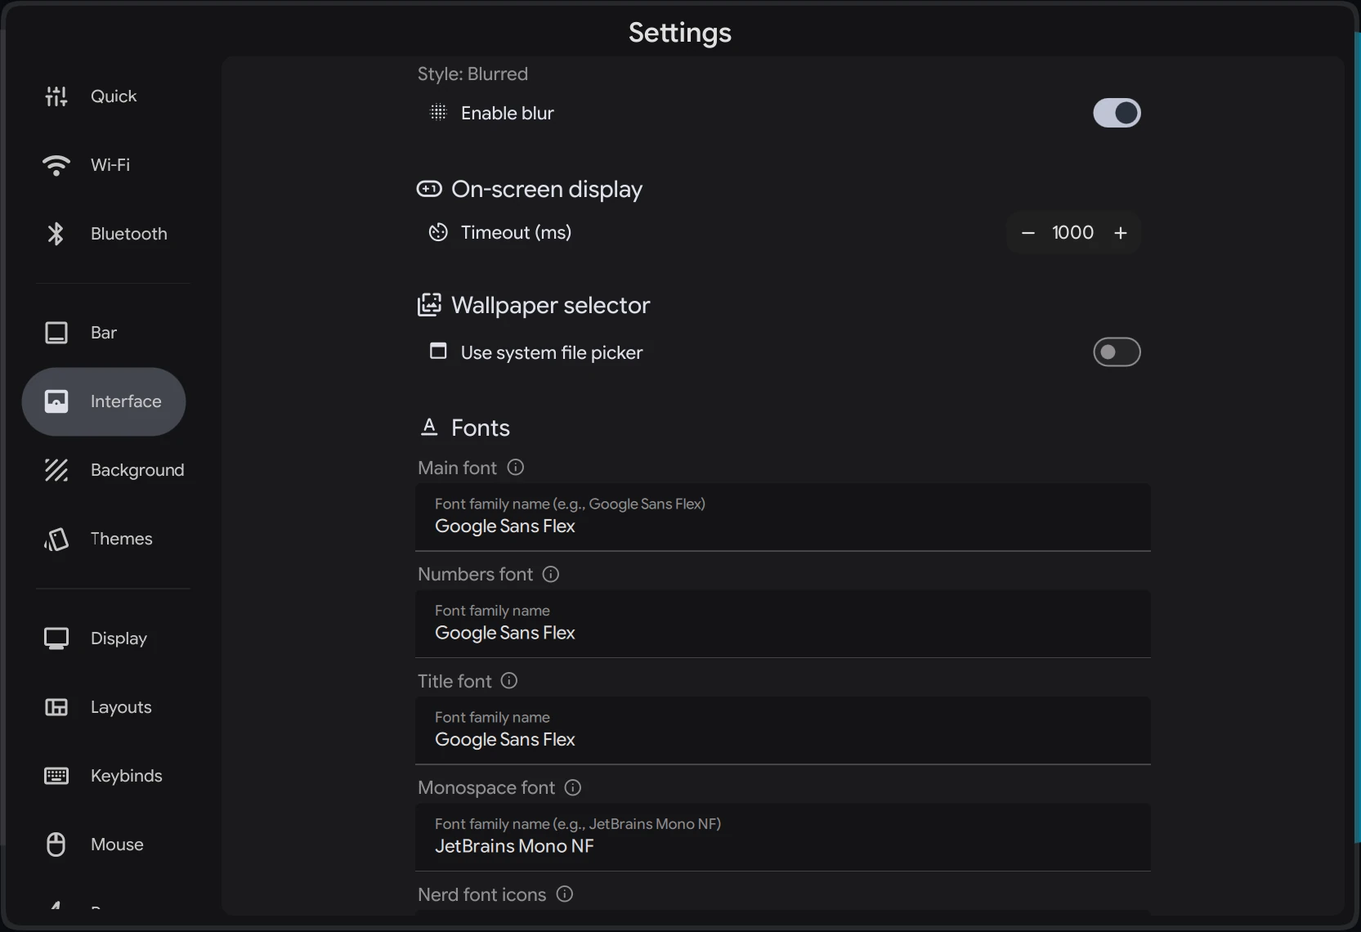
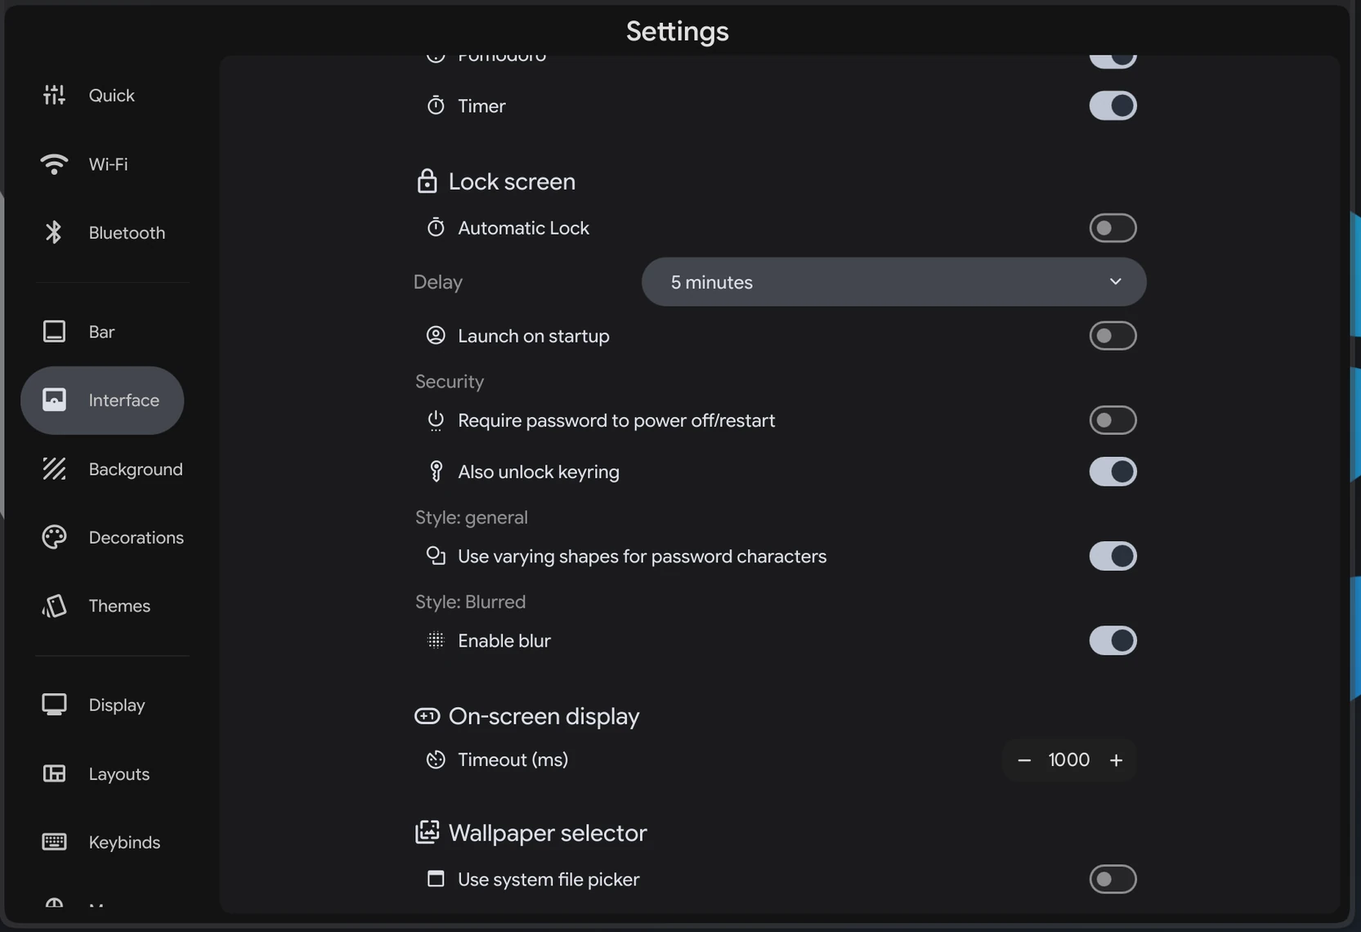
site: update for 1.1.0

diff --git a/docs-pages.js b/docs-pages.js
@@ -406,6 +406,15 @@ PAGES.bar = {
   render: () => `
     ${twoShot('BarConfig-1.webp','Time, date, position, workspaces.','BarConfig-2.webp','Utility buttons, weather, tray, volume.')}
 
+    <h2>Widget layout</h2>
+    <p>The bar is built from widgets you arrange yourself. There are two ways to go about it:</p>
+    <div class="props">
+      <div class="prop"><center><div class="k">Simple</div></center><div class="v">The stock arrangement. Everything sits where Mainstream put it and you only decide what is shown.</div></div>
+      <div class="prop"><center><div class="k">Custom</div></center><div class="v">Take over completely. Drag widgets to reorder them or move them between the left, center, and right sections — top, middle, and bottom on a vertical bar. Tap a widget to hide it, and it stays hidden until you put it back.</div></div>
+    </div>
+    <p>Drop one widget against another to <strong>group them into a pill</strong> — a single rounded container holding both, which is how the clock and its neighbours are drawn by default. <strong>Group style</strong> switches between pills and plain spacing. <strong>Reset to default layout</strong> puts everything back.</p>
+    ${callout('note','Vertical bars leave some widgets out', '<p>A few widgets only make sense across the top. The update indicator, for one, isn\'t offered when the bar is vertical.</p>')}
+
     <h2>Time &amp; Date</h2>
     <div class="props">
       <div class="prop"><center><div class="k">Time Format</div></center><div class="v"><span class="tag">24h</span> 14:32 &nbsp; <span class="tag">12h am/pm</span> 2:32 pm &nbsp; <span class="tag">12h AM/PM</span> 2:32 PM (default)</div></div>
@@ -461,19 +470,11 @@ PAGES.bar = {
 // ---------- INTERFACE ----------
 PAGES.interface = {
   group: 'Settings', title: 'Interface', icon: 'iface',
-  lede: 'Everything that affects how windows look, the dock, sidebars, fonts, and the lock screen. This is where Mainstream feels the most like your machine.',
+  lede: 'The dock, the sidebars, the hot corner, and the lock screen — the parts of the desktop you reach for, rather than the parts that are simply drawn.',
   render: () => `
-    ${shot('InterfaceConfig-1.webp','Decorations, dock, sidebars.','Decorations style the windows themselves — borders, rounded corners, shadows, and title bars. The Dock section controls the app launcher at the bottom. Left and Right Sidebars hold Mainstream\'s AI assistant and quick toggles.')}
+    ${shot('InterfaceConfig-1.webp','Dock and sidebars.','The Dock section controls the app launcher at the bottom. Left and Right Sidebars hold Mainstream\'s AI assistant and quick toggles.')}
 
-    <h2>Decorations</h2>
-    <div class="props">
-      <div class="prop"><center><div class="k">Animations</div></center><div class="v">Workspace slides, window open/close, sidebar reveals. Disable for absolute minimum latency.</div></div>
-      <div class="prop"><center><div class="k">Blur</div></center><div class="v">Blur behind translucent surfaces. Gorgeous, GPU-light on modern hardware. Turn off for battery savings on integrated graphics.</div></div>
-      <div class="prop"><center><div class="k">Shadows</div></center><div class="v">Soft drop shadow under focused windows.</div></div>
-      <div class="prop"><center><div class="k">Borders</div></center><div class="v">A colored border around active and inactive windows — helpful for telling floating windows apart, optional for tiling.</div></div>
-      <div class="prop"><center><div class="k">Rounded Corners</div></center><div class="v">Rounds the corners of windows and the bar to your theme radius.</div></div>
-      <div class="prop"><center><div class="k">Title Bars</div></center><div class="v">On by default, so every window keeps its close and maximize buttons. Turn off for a chromeless look — the same toggle as on the <a href="#layouts">Layouts</a> page.</div></div>
-    </div>
+    ${callout('note','Looking for decorations or fonts?', '<p>Window borders, blur, shadows, rounded corners and title bars — along with your app style, icons, pointer and fonts — now live on their own <a href="#decorations">Decorations</a> page.</p>')}
 
     <h2>Dock</h2>
     ${twoShot('Dock-Right-Click-Per-App.webp','Right-click a dock icon — per-app view.','Dock-Right-Click-Per-Window.webp','Per-window view shows open instances individually with live volume sliders.')}
@@ -484,6 +485,7 @@ PAGES.interface = {
       <div class="prop"><center><div class="k">Pinned on startup</div></center><div class="v">Starts the session with the dock pinned open — always visible, reserving its space at the bottom — until you unpin it.</div></div>
       <div class="prop"><center><div class="k">Right-click volume control</div></center><div class="v">Adds a volume slider and mute toggle to the right-click menu of a dock icon for any app currently playing audio. <b>Per window</b> gives each window its own slider — handy for browsers or Discord where different windows play different sound; <b>Per app</b> groups them into one.</div></div>
       <div class="prop"><center><div class="k">Tint app icons</div></center><div class="v">Desaturates each icon and washes it with your accent color for a uniform look. Keep off for brand-accurate icons.</div></div>
+      <div class="prop"><center><div class="k">Launch animation</div></center><div class="v">The icon reacts when you start an app, so you can see the click landed before the window appears. <span class="tag">Bounce</span> the default &nbsp; <span class="tag">Pulse</span> &nbsp; <span class="tag">Pop</span> &nbsp; <span class="tag">Wobble</span> &nbsp; <span class="tag">None</span> Only a genuine launch animates — clicking an app that is already open, or opening a folder, does not.</div></div>
     </div>
 
     <h2>Left Hot Corner</h2>
@@ -501,11 +503,11 @@ PAGES.interface = {
       <div class="prop"><center><div class="k">Workspace scale</div></center><div class="v">How much each preview shrinks — lower fits more workspaces on screen. Default 50%.</div></div>
     </div>
 
-    <h2>Overview</h2>
+    <h2>Launcher Overview</h2>
     <p>Settings for the built-in overview grid (<a href="#overview-launcher">Overview &amp; Launcher</a>).</p>
     <div class="props">
       <div class="prop"><center><div class="k">Enable</div></center><div class="v">Master toggle for the overview.</div></div>
-      <div class="prop"><center><div class="k">Scale (%)</div></center><div class="v">How large the overview appears on screen.</div></div>
+      <div class="prop"><center><div class="k">Size (%)</div></center><div class="v">How much of the screen the overview fills.</div></div>
       <div class="prop"><center><div class="k">Rows / Columns</div></center><div class="v">The shape of the workspace grid. Default 2 rows by 5 columns.</div></div>
       <div class="prop"><center><div class="k">Pre-load overview</div></center><div class="v">Keeps the overview built in the background so it opens instantly, at a small memory cost.</div></div>
     </div>
@@ -543,10 +545,8 @@ PAGES.interface = {
       <div class="prop"><center><div class="k">Timeout (ms)</div></center><div class="v">How long the popup lingers after the last key press.</div></div>
     </div>
 
-    <h2>Fonts</h2>
-    ${shot('InterfaceConfig-3.webp','Font family overrides.')}
-
-    <p>Mainstream uses <strong>Google Sans Flex</strong> and <strong>JetBrains Mono NF</strong> by default. Every surface (main UI, numbers, titles, monospace, nerd-font icons, reading text) can be individually overridden. Font names are resolved via fontconfig, so anything in <code>fc-list</code> is fair game.</p>
+    <h2>Wallpaper selector</h2>
+    <p>Controls for the wallpaper picker itself — see <a href="#background">Background</a> for the wallpaper and its overlay widgets.</p>
   `
 };
 
@@ -556,6 +556,9 @@ PAGES.background = {
   lede: 'Wallpaper behavior and the two overlay widgets that live on top of it — the big clock on the right, and the optional weather card.',
   render: () => `
     ${twoShot('BackgroundConfig-1.webp','Wallpaper panning, Clock widget.','BackgroundConfig-2.webp','Digital clock styling, Weather widget.')}
+
+    <h2>Video wallpapers</h2>
+    <p>Pick a video the same way you pick a picture and it plays as your background — nothing to install first, and the colors are drawn from it just as they are from a still image. The picker shows your wallpapers as thumbnails, and a newly chosen one appears immediately while its palette is worked out in the background.</p>
 
     <h2>Wallpaper panning</h2>
     <p>Controls how the wallpaper moves as you switch workspaces and toggle sidebars. The default feel is a gentle parallax that echoes the ripples in the mark.</p>
@@ -608,6 +611,55 @@ PAGES.background = {
   `
 };
 
+// ---------- DECORATIONS ----------
+PAGES.decorations = {
+  group: 'Settings', title: 'Decorations', icon: 'sliders',
+  lede: 'How windows are drawn, which app style and icons the rest of your programs use, how big the mouse pointer is, and which fonts everything is set in.',
+  render: () => `
+    ${shot('DecorationsConfig-1.webp','Decorations and system look')}
+
+    <h2>Decorations</h2>
+    <p>These six switches control how a window is drawn. Turning any of them off is a fair trade for speed on older hardware — the desktop keeps working exactly the same, it just does less painting.</p>
+    <div class="props">
+      <div class="prop"><center><div class="k">Animations</div></center><div class="v">Window open and close effects, and the slide between workspaces. Turn off for the lowest possible latency.</div></div>
+      <div class="prop"><center><div class="k">Blur</div></center><div class="v">Background blur behind transparent windows and panels. Looks best on modern hardware; turn it off to save battery on integrated graphics.</div></div>
+      <div class="prop"><center><div class="k">Shadows</div></center><div class="v">Drop shadows underneath windows.</div></div>
+      <div class="prop"><center><div class="k">Borders</div></center><div class="v">Colored borders around active and inactive windows — useful for telling floating windows apart.</div></div>
+      <div class="prop"><center><div class="k">Rounded Corners</div></center><div class="v">Rounded corners on windows and the bar, following your theme radius.</div></div>
+      <div class="prop"><center><div class="k">Title Bars</div></center><div class="v">Show title bars on windows, so every window keeps its close and maximize buttons. Turn off for a chromeless look — this is the same toggle as on the <a href="#layouts">Layouts</a> page.</div></div>
+    </div>
+
+    <h2>System look</h2>
+    <p>The desktop follows your theme on its own. These three pick what everything <em>else</em> uses — your file manager, your browser, your text editor. Each list shows only what is actually installed, so anything you pick here will work.</p>
+    <div class="props">
+      <div class="prop"><center><div class="k">App style</div></center><div class="v">The widget theme GTK and Qt programs are drawn with — buttons, menus, scrollbars.</div></div>
+      <div class="prop"><center><div class="k">Icons</div></center><div class="v">The icon set used across the desktop and inside apps.</div></div>
+      <div class="prop"><center><div class="k">Mouse cursor</div></center><div class="v">The pointer theme. Your choice survives a logout.</div></div>
+    </div>
+    ${callout('tip','Saved with your themes', '<p>All three of these are captured when you save a theme, so switching themes brings the whole look with it — not just the colors. See <a href="#themes">Themes</a>.</p>')}
+
+    <h2>Cursor</h2>
+    ${shot('DecorationsConfig-2.webp','Cursor size and fonts')}
+    <div class="props">
+      <div class="prop"><center><div class="k">Cursor Size</div></center><div class="v"><span class="tag">Small</span> 16px &nbsp; <span class="tag">Default</span> 24px &nbsp; <span class="tag">Large</span> 32px &nbsp; <span class="tag">Larger</span> 48px &nbsp; <span class="tag">Largest</span> 64px</div></div>
+    </div>
+    ${callout('note','Not every cursor theme can be resized', '<p>The list only offers the sizes your chosen pointer theme can actually draw, so you will sometimes see fewer than five. A theme built at a single size stays that size whichever option you pick.</p>')}
+
+    <h2>Fonts</h2>
+    <p>Mainstream uses <strong>Google Sans Flex</strong> and <strong>JetBrains Mono NF</strong> by default. Each list is searchable and previews every font in its own typeface, so you can see what you are choosing before you choose it. Anything installed on your system is available.</p>
+    <div class="props">
+      <div class="prop"><center><div class="k">Main font</div></center><div class="v">The everyday interface font, used almost everywhere.</div></div>
+      <div class="prop"><center><div class="k">Numbers font</div></center><div class="v">Clocks, counters, and readouts, where even digit widths matter.</div></div>
+      <div class="prop"><center><div class="k">Title font</div></center><div class="v">Headings and larger titles.</div></div>
+      <div class="prop"><center><div class="k">Monospace font</div></center><div class="v">Terminal-style text and anything that needs to line up in columns.</div></div>
+      <div class="prop"><center><div class="k">Nerd font icons</div></center><div class="v">The glyph font behind the small icons in the bar and menus. Change this only if you know the replacement carries the same glyphs.</div></div>
+      <div class="prop"><center><div class="k">Reading font</div></center><div class="v">Longer passages of text, like notification bodies and the AI assistant.</div></div>
+      <div class="prop"><center><div class="k">Expressive font</div></center><div class="v">The occasional display font used for emphasis.</div></div>
+    </div>
+    ${callout('info','Your apps follow along', '<p>Setting the main font here also hands it to GTK and Qt programs, so your browser and file manager match the desktop instead of staying on the system default.</p>')}
+  `
+};
+
 // ---------- THEMES ----------
 PAGES.themes = {
   group: 'Settings', title: 'Themes', icon: 'themes',
@@ -619,9 +671,10 @@ PAGES.themes = {
     <p>A theme is a full snapshot of your desktop as it stands — not just the wallpaper and colors. Switching themes switches all of this at once:</p>
     <div class="props">
       <div class="prop"><center><div class="k">Wallpaper</div></center><div class="v">The image file itself is copied into the theme, so the theme keeps working even if you later move or delete the original.</div></div>
-      <div class="prop"><center><div class="k">Colors</div></center><div class="v">Your <strong>Material You palette style</strong> (Expressive, Monochrome, …) and <strong>Light/Dark</strong> choice. On apply, the palette is regenerated from the theme\'s wallpaper — and it reaches further than the shell: GTK apps follow the light/dark switch and the terminal recolors too.</div></div>
-      <div class="prop"><center><div class="k">Every Settings option</div></center><div class="v">The complete shell configuration as it stood when you saved: <strong>bar</strong> position, style, and modules; the <strong>dock</strong> — including which apps are pinned; <strong>background widgets</strong> (clock, weather, quote); <strong>fonts</strong> and sizes; <strong>transparency</strong>; interface and launcher tweaks. If it lives in Settings, the theme carries it.</div></div>
+      <div class="prop"><center><div class="k">Colors</div></center><div class="v">Your <strong>Material You palette style</strong> (Expressive, Monochrome, …) and <strong>Light/Dark</strong> choice. On apply, the palette is regenerated from the theme\'s wallpaper — and it reaches further than the desktop: GTK apps follow the light/dark switch and the terminal recolors too.</div></div>
+      <div class="prop"><center><div class="k">Every Settings option</div></center><div class="v">The complete desktop configuration as it stood when you saved: <strong>bar</strong> position, style, and modules; the <strong>dock</strong> — including which apps are pinned; <strong>background widgets</strong> (clock, weather, quote); <strong>fonts</strong> and sizes; <strong>transparency</strong>; interface and launcher tweaks. If it lives in Settings, the theme carries it.</div></div>
       <div class="prop"><center><div class="k">Window decorations</div></center><div class="v">Animations, blur, shadows, borders and gaps, rounded corners, and title bars — applied live, so windows re-dress the moment you switch.</div></div>
+      <div class="prop"><center><div class="k">System look</div></center><div class="v">Your app style, icon set, and mouse pointer, so your other programs change with the desktop instead of staying behind. Set these on the <a href="#decorations">Decorations</a> page.</div></div>
       <div class="prop"><center><div class="k">Preview</div></center><div class="v">A screenshot taken at save time becomes the theme\'s thumbnail in the grid.</div></div>
     </div>
 
@@ -653,8 +706,15 @@ PAGES.themes = {
 
     ${callout('tip','Two workflows, one OS', '<p>Build a "Focus" theme with muted grays, no blur, minimal chrome; and a "Weekend" theme with a photo wallpaper, expressive colors, and the clock widget enabled. Switch with one click depending on what you\'re doing — or let Day/Night switch for you.</p>')}
 
-    <h3>Sharing themes</h3>
-    <p>Each theme is a self-contained folder at <code>~/.config/mainstream/themes/&lt;name&gt;/</code> — the settings snapshot, the decoration flags, the wallpaper file, and the preview thumbnail, all together. Zip the folder to share it — or drop one into <code>~/.config/mainstream/themes/</code> to install a theme someone sent you.</p>
+    <h2>Sharing themes</h2>
+    <p>A theme travels as a single <code>.mtheme</code> file — the settings snapshot, the decoration flags, the wallpaper, and the preview thumbnail, packed together. <strong>Export</strong> writes one out, <strong>Import</strong> reads one in. Nothing needs to be zipped or copied by hand.</p>
+    <div class="props">
+      <div class="prop"><center><div class="k">Export</div></center><div class="v">Saves the selected theme as a <code>.mtheme</code> file wherever you choose. Machine-specific details are stripped on the way out, so the file makes sense on somebody else\'s computer.</div></div>
+      <div class="prop"><center><div class="k">Import</div></center><div class="v">Opens a <code>.mtheme</code> file and adds it to your collection. If you already have a theme of the same name, the imported one replaces it — so re-importing an updated copy does the right thing rather than leaving you with duplicates.</div></div>
+    </div>
+    ${callout('note','If a theme needs something you don\'t have', '<p>A theme can name an app style, icon set, or pointer theme that isn\'t installed on your machine. It still imports, and Mainstream tells you which piece is missing so you can install it and import the file again for the complete look. That notice stays up until you\'ve dealt with it.</p>')}
+
+    <p>Themes still live as plain folders under <code>~/.config/mainstream/themes/</code> if you\'d rather poke at them directly.</p>
   `
 };
 
@@ -681,6 +741,9 @@ PAGES.display = {
     <p>Nothing changes until you press <strong>Apply changes</strong> — every monitor\'s edits apply together, then a countdown asks whether to <strong>Keep</strong> the new settings. Don\'t like what you see (or can\'t see anything at all)? Wait it out or press <strong>Revert</strong> and everything returns to how it was.</p>
 
     ${shot('DisplayConfig-2.webp','Secondary monitor with color management')}
+
+    <h3>Duplicate screen</h3>
+    <p>Show the same picture on two displays instead of spreading the desktop across them — the usual choice for a projector or a TV. Pick which monitor to copy and the second one mirrors it. Set it back to its own resolution and position to go back to an extended desktop.</p>
 
     <h2>Workspaces per monitor</h2>
     <p>By default workspaces 1-10 are shared across monitors. <strong>Custom</strong> pins specific workspaces to a monitor — useful for multi-monitor setups where you want workspace 1 always on the left screen. The <strong>+</strong> and <strong>−</strong> beside the rows add or remove another block of ten workspaces, same as on the <a href="#layouts">Layouts</a> page.</p>
@@ -779,6 +842,14 @@ PAGES.mouse = {
 
     <h2>General</h2>
     <p><strong>Primary Button</strong> — which physical button is the primary click. <b>Left</b> is the default; switch to <b>Right</b> for left-hand use.</p>
+
+    <h3>Shake to Locate</h3>
+    <p>Lost the pointer on a large or busy screen? Shake it and Mainstream makes it obvious. Off by default.</p>
+    <div class="props">
+      <div class="prop"><center><div class="k">Magnifier Zoom</div></center><div class="v">Magnifies the area around the pointer while you shake, so you find it by the patch of enlarged screen.</div></div>
+      <div class="prop"><center><div class="k">Cursor Grows</div></center><div class="v">Grows the pointer itself instead of the screen under it. The lighter of the two.</div></div>
+    </div>
+    <p>Each mode has its own strength setting, so you can make the effect as subtle or as obvious as you like.</p>
 
     <h2>Mouse</h2>
     <div class="props">
@@ -947,6 +1018,10 @@ PAGES.update = {
   lede: 'Mainstream updates are snapshot-protected. Before anything installs, a snapshot of the system is taken — the snapshot skips your personal folders like Documents and Pictures, but backs up your programs, settings, and the OS itself — so if something stops working, you roll back from the boot screen without your files ever being touched.',
   render: () => `
     ${shot('UpdateConfig.webp','Update settings page')}
+
+    <h2>Knowing there is an update</h2>
+    <p>The page shows which release you are on, so you never have to guess. When a new one is published, a small indicator appears in your bar and a notification tells you what changed — you can read the release notes before deciding to install anything. The <a href="#changelog">changelog</a> carries the same notes.</p>
+    <p>You choose how much of that you want: the bar indicator and the notification can each be turned off, and you can ask to hear only about bigger releases rather than every patch.</p>
 
     <h2>Before &amp; after the update</h2>
     <p>The tip box at the top is worth reading before you click the button the first time: test the things you rely on <em>before</em> the update, and test the same things again after. Most updates come and go without a hitch, but knowing what to check makes it obvious if something stopped working.</p>
@@ -1118,7 +1193,7 @@ PAGES.about = {
       <thead><tr><th>Project</th><th>By</th><th>What it is</th></tr></thead>
       <tbody>
         <tr><td><b><a href="https://github.com/end-4/dots-hyprland">illogical-impulse</a></b></td><td>end-4 (<a href="https://github.com/sponsors/end-4">Donate</a>)</td><td>The dotfiles Mainstream\'s desktop is forked from.</td></tr>
-        <tr><td><b><a href="https://git.outfoxxed.me/quickshell/quickshell">Quickshell</a></b></td><td>outfoxxed</td><td>The Qt/QML shell framework the whole UI is built on.</td></tr>
+        <tr><td><b><a href="https://git.outfoxxed.me/quickshell/quickshell">Quickshell</a></b></td><td>outfoxxed</td><td>The Qt/QML shell framework the UI is built on.</td></tr>
         <tr><td><b><a href="https://github.com/yayuuu/hyprland-scroll-overview">Scroll Overview</a></b></td><td>yayuuu</td><td>The Hyprland plugin behind the workspace overview.</td></tr>
         <tr><td><b><a href="https://calamares.io">Calamares</a></b></td><td>Calamares Team</td><td>The graphical installer.</td></tr>
         <tr><td><b><a href="https://github.com/ful1e5/Bibata_Cursor">Bibata Cursor</a></b></td><td>ful1e5 (<a href="https://github.com/sponsors/ful1e5">Donate</a>)</td><td>The default cursor theme.</td></tr>
@@ -1389,7 +1464,7 @@ PAGES.shortcuts = {
   render: () => `
     <h2>Every shortcut, one key away</h2>
     <p>Press <code>SUPER</code> (the ⊞ Windows or ⌘ Command key) + <code>TAB</code> at any time for a searchable cheat sheet of every keybind on the system. Start typing to filter it down — launching apps, moving windows, switching workspaces, screenshots, Gaming Mode, the lot. It\'s the fastest way to learn Mainstream, and the one shortcut worth knowing on day one.</p>
-    ${shot('Keybind-Cheatsheet.webp','The SUPER + TAB cheat sheet: a search box above every shortcut, grouped by Shell, Window, Workspace, Apps, and more','SUPER + TAB brings up a searchable list of every shortcut, grouped by what it does.')}
+    ${shot('Keybind-Cheatsheet.webp','The SUPER + TAB cheat sheet: a search box above every shortcut, grouped by Desktop, Window, Workspace, Apps, and more','SUPER + TAB brings up a searchable list of every shortcut, grouped by what it does.')}
 
     <h2>The essentials</h2>
     <p>A handful worth committing to memory — the rest are always a <code>SUPER</code> + <code>TAB</code> away.</p>

diff --git a/docs-app.js b/docs-app.js
@@ -4,7 +4,7 @@ const NAV_ORDER = [
   { group: 'Start here', ids: ['home'] },
   { group: 'Installation', ids: ['install-iso', 'install-script'], collapsible: true, icon: 'rocket' },
   { group: 'Desktop', ids: ['desktop','overview-launcher','shortcuts','sidebars','sharing','desktop-apps'] },
-  { group: 'Settings', ids: ['quick','wifi','bluetooth','bar','interface','background','themes','display','layouts','keybinds','mouse','power','accounts','services','update','recovery','about'] },
+  { group: 'Settings', ids: ['quick','wifi','bluetooth','bar','interface','background','decorations','themes','display','layouts','keybinds','mouse','power','accounts','services','update','recovery','about'] },
   { group: 'Creative', ids: ['davinci','obs'], collapsible: true, icon: 'film', heading: 'Topics' },
   { group: 'Gaming', ids: ['gaming','steam-proton'], collapsible: true, icon: 'game' },
   { group: 'Security', ids: ['security','verify','privacy'], collapsible: true, icon: 'shield' },
